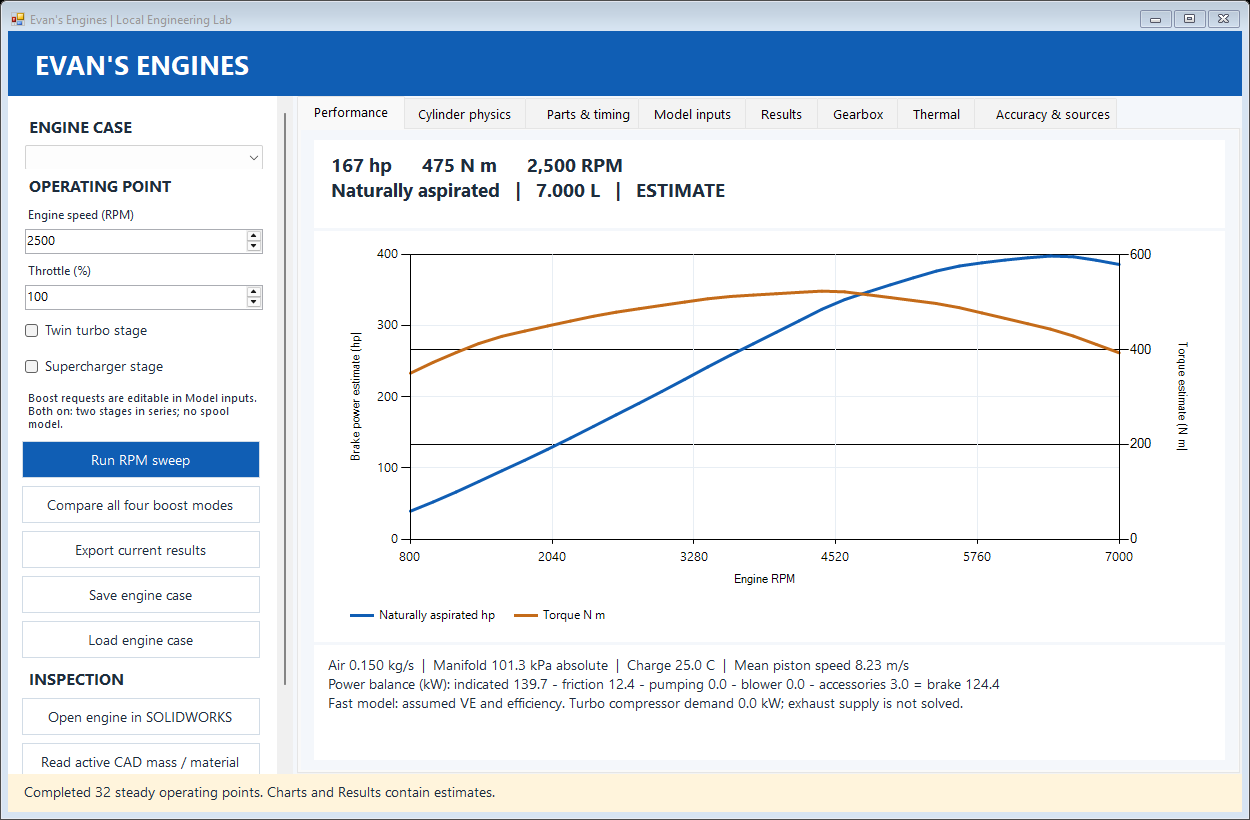
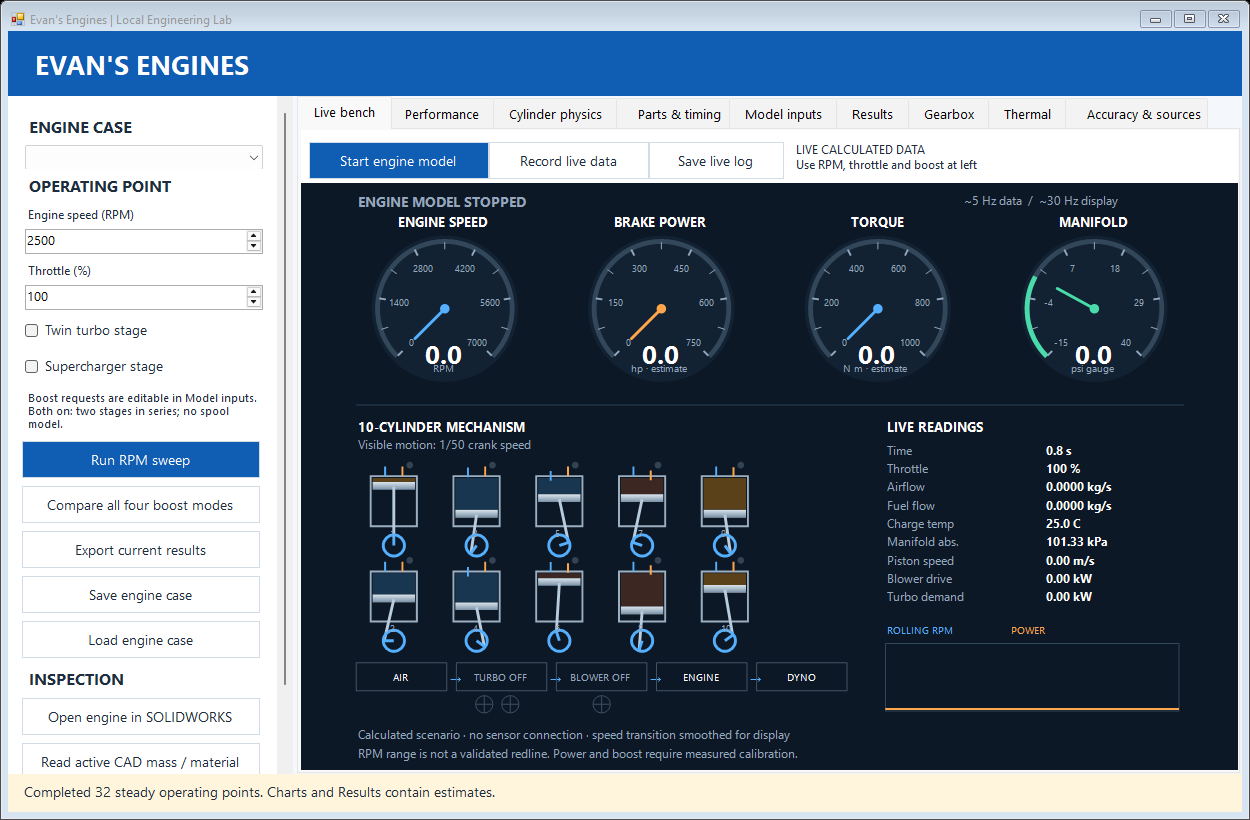
Add live gauges, animated engine system and timestamped data recording

diff --git a/EvanEngines.cs b/EvanEngines.cs
@@ -17,7 +17,7 @@ namespace V10Lab {
   public string Title="7.0 L V10 development";public string CreatedUTC=DateTime.UtcNow.ToString("o");
  }
  public sealed class SmoothPanel:Panel {public SmoothPanel(){DoubleBuffered=true;ResizeRedraw=true;}}
- public sealed class Lab:Form {
+ public sealed partial class Lab:Form {
   static readonly Color Blue=Color.FromArgb(16,94,180),Ink=Color.FromArgb(30,45,61),Paper=Color.FromArgb(244,247,251),Orange=Color.FromArgb(196,107,25);
   public static string Root {get{return AppDomain.CurrentDomain.BaseDirectory;}}
   Inputs input=new Inputs();Point point;List<Point> results;bool updating=false,playing=false;
@@ -49,13 +49,13 @@ namespace V10Lab {
    Button(side,"Open saved tests folder",()=>OpenPath(Path.Combine(Root,"Runs")),false);
    Button(side,"Read model & accuracy notes",()=>OpenPath(Path.Combine(Root,"README.txt")),false);
    tabs=new TabControl{Dock=DockStyle.Fill,Padding=new System.Drawing.Point(15,7)};split.Panel2.Controls.Add(tabs);
-   TabPage bench=Tab("Performance");TableLayoutPanel benchLayout=new TableLayoutPanel{Dock=DockStyle.Fill,RowCount=3,ColumnCount=1,Padding=new Padding(10)};benchLayout.RowStyles.Add(new RowStyle(SizeType.Absolute,88));benchLayout.RowStyles.Add(new RowStyle(SizeType.Percent,100));benchLayout.RowStyles.Add(new RowStyle(SizeType.Absolute,115));bench.Controls.Add(benchLayout);
+   BuildLiveBench();TabPage bench=Tab("Performance");TableLayoutPanel benchLayout=new TableLayoutPanel{Dock=DockStyle.Fill,RowCount=3,ColumnCount=1,Padding=new Padding(10)};benchLayout.RowStyles.Add(new RowStyle(SizeType.Absolute,88));benchLayout.RowStyles.Add(new RowStyle(SizeType.Percent,100));benchLayout.RowStyles.Add(new RowStyle(SizeType.Absolute,115));bench.Controls.Add(benchLayout);
    metrics=new Label{Dock=DockStyle.Fill,BackColor=Color.White,Padding=new Padding(12),Font=new Font("Segoe UI",16,FontStyle.Bold)};benchLayout.Controls.Add(metrics,0,0);
    plot=NewChart("Engine RPM","Brake power estimate (hp)");plot.ChartAreas[0].AxisY2.Enabled=AxisEnabled.True;plot.ChartAreas[0].AxisY2.Title="Torque estimate (N m)";benchLayout.Controls.Add(plot,0,1);
    energy=new Label{Dock=DockStyle.Fill,BackColor=Color.White,Padding=new Padding(10)};benchLayout.Controls.Add(energy,0,2);
    BuildCycle();BuildParts();BuildInputs();BuildResults();BuildGears();BuildThermal();BuildNotes();
    rpm.ValueChanged+=(s,e)=>RefreshPoint();throttle.ValueChanged+=(s,e)=>{RefreshPoint();RunSweep(false);};turbo.CheckedChanged+=(s,e)=>{RefreshPoint();RunSweep(false);};sc.CheckedChanged+=(s,e)=>{RefreshPoint();RunSweep(false);};
-   timer.Interval=33;timer.Tick+=(s,e)=>{double now=clock.Elapsed.TotalSeconds,dt=now-lastTime;lastTime=now;if(playing){animationAngle=Model.Mod(animationAngle+dt*120,720);angle.Value=(int)animationAngle;}mechanism.Invalidate();};timer.Start();
+   timer.Interval=33;timer.Tick+=(s,e)=>{double now=clock.Elapsed.TotalSeconds,dt=now-lastTime;lastTime=now;if(playing){animationAngle=Model.Mod(animationAngle+dt*120,720);angle.Value=(int)animationAngle;}mechanism.Invalidate();AdvanceLive(dt,now);};timer.Start();
    FillInputs();RefreshPoint();RunSweep(false);Shown+=(s,e)=>{split.SplitterDistance=285;};
   }
   TabPage Tab(string name){TabPage t=new TabPage(name){BackColor=Paper};tabs.TabPages.Add(t);return t;}
@@ -123,15 +123,15 @@ namespace V10Lab {
   void BuildThermal(){TabPage p=Tab("Thermal");FlowLayoutPanel controls=new FlowLayoutPanel{Dock=DockStyle.Left,Width=255,AutoScroll=true,FlowDirection=FlowDirection.TopDown,WrapContents=false,Padding=new Padding(8)};NumericUpDown mass=Number(controls,"Object mass (kg)",.1m,10000,100,1),cp=Number(controls,"Heat capacity (J/kg/K)",100,5000,900,0),ua=Number(controls,"Heat loss (W/K)",1,100000,200,0),heat=Number(controls,"Constant heat input (W)",0,1000000,20000,0),ambient=Number(controls,"Ambient / initial temperature (C)",-20,100,25,0);
    Action run=()=>{thermalPlot.Series.Clear();Series s=Line(thermalPlot,"Uniform-temperature scenario",Blue);double tau=(double)(mass.Value*cp.Value/ua.Value),t0=(double)ambient.Value,ss=t0+(double)(heat.Value/ua.Value);for(int t=0;t<=3600;t+=30)s.Points.AddXY(t,ss+(t0-ss)*Math.Exp(-t/tau));};Button(controls,"Calculate warm-up",run,true);AddText(controls,"Lumped thermal model. One uniform temperature; constant heat input and cooling. Not a predicted engine block temperature.",9,false,100);thermalPlot=NewChart("Elapsed time (s)","Object temperature (C)");p.Controls.Add(thermalPlot);p.Controls.Add(controls);run();}
   void BuildNotes(){TabPage p=Tab("Accuracy & sources");TextBox t=new TextBox{Dock=DockStyle.Fill,Multiline=true,ReadOnly=true,ScrollBars=ScrollBars.Vertical,BackColor=Color.White,BorderStyle=BorderStyle.None,Font=new Font("Segoe UI",11),Text=
-   "EVAN'S ENGINES 1.0\r\n\r\nGT-POWER inspired workflow; an independent concept tool. It does not contain GT-POWER code or its solver.\r\n\r\nFast performance: prescribed airflow/VE, ideal-cycle efficiency with an assumed realization factor, oxygen-limited fuel energy, friction/pumping/accessory losses and compressor heating. These are scenarios, not calibrated power predictions.\r\n\r\nCylinder physics: Cantera temperature-dependent air properties; closed compression/expansion, RK4 crank-angle integration, imposed Wiebe heat release and assumed wall heat transfer. Includes energy balance and step convergence. No chemical combustion, valve gas exchange, knock, emissions or turbine balance.\r\n\r\nParts: CAD slider-crank and valve-lift motion. Cam interpolation adapted from MIT-licensed Engine Simulator by Ange Yaghi. Timing controls do not update airflow estimates automatically.\r\n\r\nSOLIDWORKS: native parts open in CAD. Supported API mass/material readback is provided separately. CAD geometry does not determine horsepower.\r\n\r\nGearbox: ideal ratios with assumed 95% efficiency; no automatic shift control or torque-converter fluid model.\r\n\r\nThermal: independent one-temperature heat balance, not a finite element temperature/stress result.\r\n\r\n7000 RPM is the initial calculation range, not a mechanically validated redline. A result inside the range does not establish durability.\r\n\r\nTo improve accuracy: load measured VE/airflow, compression/chamber volumes, fuel properties, cylinder-pressure data, compressor/turbine maps and loss data. Numerical checks prove calculation consistency, not physical validation.\r\n\r\nREA 6.7.0 inspected our existing controller and compiled app. Evidence and original source excerpts are retained locally. REA is an analysis tool, not a physics solver.\r\n\r\nSources and licenses are in README.txt and LICENSES. No internet connection is needed to run the installed app."};p.Controls.Add(t);}
+   "EVAN'S ENGINES 0.2\r\n\r\nGT-POWER inspired workflow; an independent concept tool. It does not contain GT-POWER code or its solver.\r\n\r\nFast performance: prescribed airflow/VE, ideal-cycle efficiency with an assumed realization factor, oxygen-limited fuel energy, friction/pumping/accessory losses and compressor heating. These are scenarios, not calibrated power predictions.\r\n\r\nCylinder physics: Cantera temperature-dependent air properties; closed compression/expansion, RK4 crank-angle integration, imposed Wiebe heat release and assumed wall heat transfer. Includes energy balance and step convergence. No chemical combustion, valve gas exchange, knock, emissions or turbine balance.\r\n\r\nParts: CAD slider-crank and valve-lift motion. Cam interpolation adapted from MIT-licensed Engine Simulator by Ange Yaghi. Timing controls do not update airflow estimates automatically.\r\n\r\nSOLIDWORKS: native parts open in CAD. Supported API mass/material readback is provided separately. CAD geometry does not determine horsepower.\r\n\r\nGearbox: ideal ratios with assumed 95% efficiency; no automatic shift control or torque-converter fluid model.\r\n\r\nThermal: independent one-temperature heat balance, not a finite element temperature/stress result.\r\n\r\n7000 RPM is the initial calculation range, not a mechanically validated redline. A result inside the range does not establish durability.\r\n\r\nTo improve accuracy: load measured VE/airflow, compression/chamber volumes, fuel properties, cylinder-pressure data, compressor/turbine maps and loss data. Numerical checks prove calculation consistency, not physical validation.\r\n\r\nREA 6.7.0 inspected our existing controller and compiled app. Evidence and original source excerpts are retained locally. REA is an analysis tool, not a physics solver.\r\n\r\nSources and licenses are in README.txt and LICENSES. No internet connection is needed to run the installed app."};p.Controls.Add(t);}
   static void OpenPath(string path){if(!File.Exists(path)&&!Directory.Exists(path))throw new FileNotFoundException("Not found: "+path);Process.Start(new ProcessStartInfo(path){UseShellExecute=true});}
   void ReadCAD(){string helper=Path.Combine(Root,"CadReadback.exe");if(!File.Exists(helper))throw new Exception("The optional SOLIDWORKS helper is not installed. Build it against your licensed SOLIDWORKS API interop library.");using(Process proc=Process.Start(new ProcessStartInfo(helper){UseShellExecute=false,CreateNoWindow=true,WorkingDirectory=Root})){if(!proc.WaitForExit(15000))throw new Exception("CAD is busy; close dialogs and retry.");if(proc.ExitCode!=0)throw new Exception(File.ReadAllText(Path.Combine(Root,"Evidence","CAD_Readback_Error.txt")));}var data=Inputs.Json.Deserialize<Dictionary<string,object>>(File.ReadAllText(Path.Combine(Root,"Runs","SOLIDWORKS_Readback.json")));MessageBox.Show(String.Format(CultureInfo.InvariantCulture,"{0}\nConfiguration: {1}\nAssigned CAD mass: {2:F3} kg\nVolume: {3:F6} m3\nMaterial: {4}\n\nRead-only CAD properties; no performance or strength validation.",data["document"],data["configuration"],data["mass_kg"],data["volume_m3"],data["material"]),"SOLIDWORKS readback");}
   static void OpenCAD(string file){string folder=Path.GetFullPath(Path.Combine(Root,"..","Ford_427_V10_Development")),path=Path.Combine(folder,file);if(!File.Exists(path)){string[] candidates=Directory.Exists(folder)?Directory.GetFiles(folder,"*"+file.Replace(".SLDPRT","")+"*",SearchOption.AllDirectories):new string[0];if(candidates.Length==1)path=candidates[0];else throw new FileNotFoundException("That native part name was not found. Open the assembly and select the part in SOLIDWORKS.");}OpenPath(path);}
   public void SmokeCheck(){RefreshPoint();RunSweep(true);if(results.Count!=128)throw new Exception("Four-mode sweep failed.");turbo.Checked=true;sc.Checked=true;RefreshPoint();if(point.PressureRatio<=1)throw new Exception("Boost mode failed.");turbo.Checked=false;sc.Checked=false;RunSweep(false);for(int i=0;i<tabs.TabPages.Count;i++){tabs.SelectedIndex=i;Application.DoEvents();using(Bitmap bmp=new Bitmap(Width,Height)){DrawToBitmap(bmp,new Rectangle(0,0,Width,Height));bmp.Save(Path.Combine(Root,"Evidence","Tab_"+i+".png"));}}tabs.SelectedIndex=0;Application.DoEvents();}
-  public async Task IntegrationCheck(){await RunCycle();if(!cycleInfo.Text.Contains("Check: PASS"))throw new Exception("Cylinder UI integration failed: "+cycleInfo.Text);tabs.SelectedIndex=1;Application.DoEvents();using(Bitmap bmp=new Bitmap(Width,Height)){DrawToBitmap(bmp,new Rectangle(0,0,Width,Height));bmp.Save(Path.Combine(Root,"Evidence","Cylinder_UI.png"));}File.WriteAllText(Path.Combine(Root,"Evidence","Cylinder_UI_Check.txt"),"PASS: native app saved request, launched local Cantera backend, read pressure trace and numerical PASS, and plotted result.");}
+  public async Task IntegrationCheck(){await RunCycle();if(!cycleInfo.Text.Contains("Check: PASS"))throw new Exception("Cylinder UI integration failed: "+cycleInfo.Text);tabs.SelectedIndex=2;Application.DoEvents();using(Bitmap bmp=new Bitmap(Width,Height)){DrawToBitmap(bmp,new Rectangle(0,0,Width,Height));bmp.Save(Path.Combine(Root,"Evidence","Cylinder_UI.png"));}File.WriteAllText(Path.Combine(Root,"Evidence","Cylinder_UI_Check.txt"),"PASS: native app saved request, launched local Cantera backend, read pressure trace and numerical PASS, and plotted result.");}
  }
  public static class Program {
-  [STAThread] public static int Main(string[] args){try{if(args.Contains("--self-test"))return Checks.Run();Application.EnableVisualStyles();Application.SetCompatibleTextRenderingDefault(false);Directory.CreateDirectory(Path.Combine(Lab.Root,"Runs"));using(Lab app=new Lab()){if(args.Contains("--smoke-test")){app.Show();app.SmokeCheck();using(Bitmap bmp=new Bitmap(app.Width,app.Height)){app.DrawToBitmap(bmp,new Rectangle(0,0,bmp.Width,bmp.Height));bmp.Save(Path.Combine(Lab.Root,"Evidence","App_Smoke.png"));}File.WriteAllText(Path.Combine(Lab.Root,"Evidence","UI_Smoke.txt"),"PASS: construction, all tabs, four boost modes, 128 operating points, reset to baseline.");return 0;}int code=0;if(args.Contains("--integration-test"))app.Shown+=async(s,e)=>{try{await app.IntegrationCheck();}catch(Exception x){File.WriteAllText(Path.Combine(Lab.Root,"Evidence","Integration_Error.txt"),x.ToString());code=1;}app.Close();};Application.Run(app);return code;}}catch(Exception e){File.WriteAllText(Path.Combine(Lab.Root,"Evidence","Last_Error.txt"),e.ToString());if(!args.Contains("--self-test"))MessageBox.Show(e.Message,"Evan's Engines");return 1;}}
+  [STAThread] public static int Main(string[] args){try{if(args.Contains("--self-test"))return Checks.Run();Application.EnableVisualStyles();Application.SetCompatibleTextRenderingDefault(false);Directory.CreateDirectory(Path.Combine(Lab.Root,"Runs"));using(Lab app=new Lab()){if(args.Contains("--smoke-test")){app.Show();app.SmokeCheck();using(Bitmap bmp=new Bitmap(app.Width,app.Height)){app.DrawToBitmap(bmp,new Rectangle(0,0,bmp.Width,bmp.Height));bmp.Save(Path.Combine(Lab.Root,"Evidence","App_Smoke.png"));}File.WriteAllText(Path.Combine(Lab.Root,"Evidence","UI_Smoke.txt"),"PASS: construction, all tabs, four boost modes, 128 operating points, reset to baseline.");return 0;}if(args.Contains("--live-test")){app.Show();app.LiveCheck();return 0;}if(args.Contains("--run-live"))app.Shown+=(s,e)=>app.BeginLive();int code=0;if(args.Contains("--integration-test"))app.Shown+=async(s,e)=>{try{await app.IntegrationCheck();}catch(Exception x){File.WriteAllText(Path.Combine(Lab.Root,"Evidence","Integration_Error.txt"),x.ToString());code=1;}app.Close();};Application.Run(app);return code;}}catch(Exception e){File.WriteAllText(Path.Combine(Lab.Root,"Evidence","Last_Error.txt"),e.ToString());if(!args.Contains("--self-test"))MessageBox.Show(e.Message,"Evan's Engines");return 1;}}
  }
 }
 

diff --git a/LiveBench.cs b/LiveBench.cs
@@ -1,0 +1,115 @@
+using System;
+using System.Collections.Generic;
+using System.Drawing;
+using System.Drawing.Drawing2D;
+using System.Globalization;
+using System.IO;
+using System.Security.Cryptography;
+using System.Text;
+using System.Windows.Forms;
+
+namespace V10Lab {
+ // The first-order transition is display smoothing, not a calibrated engine
+ // transient. The analytical update is independent of UI frame rate.
+ public sealed class LiveState {
+  public bool Enabled;public double RPM,VisualAngle;
+  public void Advance(double dt,double target){
+   Inputs.Range(dt,0,60,"Display time step");Inputs.Range(target,0,7000,"RPM target");
+   double goal=Enabled?target:0,tau=Enabled?.7:.45,old=RPM,decay=Math.Exp(-dt/tau);
+   RPM=goal+(old-goal)*decay;
+   double revIntegral=goal*dt+(old-goal)*tau*(1-decay);
+   VisualAngle=Model.Mod(VisualAngle+revIntegral*6/50,720);
+  }
+ }
+ public sealed class LiveSample {
+  public double Seconds;public string UTC,InputId;public Point Point;
+ }
+ public sealed partial class Lab {
+  readonly LiveState live=new LiveState();SmoothPanel liveCanvas;Button liveStart,recordButton;
+  Point livePoint;double lastLiveSample=-1;bool recording;
+  readonly List<LiveSample> liveHistory=new List<LiveSample>(),recorded=new List<LiveSample>();
+  readonly Dictionary<string,Inputs> recordedInputs=new Dictionary<string,Inputs>();
+  void BuildLiveBench(){
+   TabPage page=Tab("Live bench");FlowLayoutPanel bar=new FlowLayoutPanel{Dock=DockStyle.Top,Height=53,Padding=new Padding(8),BackColor=Color.White,WrapContents=false};
+   liveStart=Button(bar,"Start engine model",()=>{live.Enabled=!live.Enabled;liveStart.Text=live.Enabled?"Stop engine model":"Start engine model";},true);liveStart.Width=180;
+   recordButton=Button(bar,"Record live data",()=>{recording=!recording;recordButton.Text=recording?"Stop recording":"Record live data";if(recording&&recorded.Count>=6000){recorded.Clear();recordedInputs.Clear();}},false);recordButton.Width=160;
+   Button save=Button(bar,"Save live log",SaveLive,false);save.Width=135;
+   Label label=new Label{Text="LIVE CALCULATED DATA\nUse RPM, throttle and boost at left",Width=270,Height=40,Padding=new Padding(6,4,0,0),Font=new Font("Segoe UI",9)};bar.Controls.Add(label);
+   liveCanvas=new SmoothPanel{Dock=DockStyle.Fill,BackColor=Color.FromArgb(13,24,38)};liveCanvas.Paint+=DrawLive;page.Controls.Add(liveCanvas);page.Controls.Add(bar);
+  }
+  void AdvanceLive(double dt,double now){
+   if(liveCanvas==null||input==null||rpm==null)return;
+   live.Advance(Math.Min(dt,60),(double)rpm.Value);
+   livePoint=Model.Calculate(input,live.RPM,(double)throttle.Value/100,live.Enabled&&turbo.Checked,live.Enabled&&sc.Checked);
+   if(!live.Enabled){livePoint=Model.Calculate(input,0,(double)throttle.Value/100,false,false);livePoint.RPM=live.RPM;livePoint.MeanPistonMS=2*input.StrokeMm/1000*live.RPM/60;livePoint.ManifoldKPa=input.AmbientKPa;livePoint.ChargeC=input.AmbientC;}
+   if(lastLiveSample<0)lastLiveSample=now-.2;
+   if(now-lastLiveSample>=.2){lastLiveSample=now-((now-lastLiveSample)%.2);LiveSample sample=new LiveSample{Seconds=now,UTC=DateTime.UtcNow.ToString("o"),Point=livePoint,InputId=""};liveHistory.Add(sample);if(liveHistory.Count>300)liveHistory.RemoveAt(0);
+    if(recording){string json=Inputs.Json.Serialize(input),id;using(SHA256 hash=SHA256.Create())id=BitConverter.ToString(hash.ComputeHash(Encoding.UTF8.GetBytes(json))).Replace("-","").Substring(0,16);sample.InputId=id;if(!recordedInputs.ContainsKey(id))recordedInputs.Add(id,input.Copy());recorded.Add(sample);if(recorded.Count>=6000){recording=false;recordButton.Text="Record live data";status.Text="Live recording reached 6000 samples. Save the log before starting another.";}}
+   }
+   if(tabs.SelectedIndex==0)liveCanvas.Invalidate();
+  }
+  void SaveLive(){if(recorded.Count==0)throw new Exception("Press Record live data, run the model, then stop recording and save the log.");using(SaveFileDialog d=new SaveFileDialog{Filter="Live data (*.csv)|*.csv",InitialDirectory=Path.Combine(Root,"Runs"),FileName="Live_"+DateTime.Now.ToString("yyyyMMdd_HHmmss")+".csv"})if(d.ShowDialog()==DialogResult.OK){WriteLiveLog(d.FileName);status.Text="Saved "+recorded.Count+" live samples with timestamps and input snapshots.";}}
+  void WriteLiveLog(string path){
+   StringBuilder output=new StringBuilder("elapsed_seconds,utc,input_id,");string header=Model.CSV(new List<Point>()).Trim();output.Append(header+"\r\n");
+   foreach(LiveSample sample in recorded){string row=Model.CSV(new List<Point>{sample.Point}).Split(new[]{"\r\n"},StringSplitOptions.RemoveEmptyEntries)[1];output.Append(sample.Seconds.ToString("G17",CultureInfo.InvariantCulture)+","+sample.UTC+","+sample.InputId+","+row+"\r\n");}
+   File.WriteAllText(path,output.ToString());File.WriteAllText(path+".inputs.json",Inputs.Json.Serialize(new{DataSource="Live calculated mean-value scenarios; no hardware telemetry",InputSets=recordedInputs,DisplayRPMTransition="First-order smoothing: 0.7 s on, 0.45 s off; not a physical transient",Samples=recorded.Count}));
+  }
+  static readonly Color LiveBlue=Color.FromArgb(84,176,255),LiveOrange=Color.FromArgb(255,165,75),LiveGreen=Color.FromArgb(73,220,170),LiveMuted=Color.FromArgb(147,167,189);
+  static void TextAt(Graphics g,string text,float x,float y,float size,Color color,bool bold=false,bool center=false){using(Font font=new Font("Segoe UI",size,bold?FontStyle.Bold:FontStyle.Regular))using(SolidBrush brush=new SolidBrush(color)){if(center)x-=g.MeasureString(text,font).Width/2;g.DrawString(text,font,brush,x,y);}}
+  static void Gauge(Graphics g,float x,float y,float radius,string name,string unit,double value,double min,double max,Color color){
+   using(SolidBrush dial=new SolidBrush(Color.FromArgb(18,34,51)))g.FillEllipse(dial,x-radius,y-radius,2*radius,2*radius);
+   using(Pen rim=new Pen(Color.FromArgb(51,71,91),5))g.DrawArc(rim,x-radius+6,y-radius+6,2*radius-12,2*radius-12,135,270);
+   double fraction=Math.Max(0,Math.Min(1,(value-min)/(max-min)));
+   using(Pen active=new Pen(color,5))g.DrawArc(active,x-radius+6,y-radius+6,2*radius-12,2*radius-12,135,(float)(270*fraction));
+   for(int i=0;i<=10;i++){double a=(135+i*27)*Math.PI/180;float inner=radius-14,outer=radius-7;using(Pen tick=new Pen(LiveMuted,i%2==0?2:1))g.DrawLine(tick,x+inner*(float)Math.Cos(a),y+inner*(float)Math.Sin(a),x+outer*(float)Math.Cos(a),y+outer*(float)Math.Sin(a));if(i%2==0)TextAt(g,(min+(max-min)*i/10).ToString("0",CultureInfo.InvariantCulture),x+(radius-28)*(float)Math.Cos(a),y+(radius-28)*(float)Math.Sin(a)-5,7,LiveMuted,false,true);}
+   double theta=(135+270*fraction)*Math.PI/180;using(Pen needle=new Pen(color,3)){needle.StartCap=LineCap.Round;needle.EndCap=LineCap.Round;g.DrawLine(needle,x,y,x+(radius-32)*(float)Math.Cos(theta),y+(radius-32)*(float)Math.Sin(theta));}
+   using(SolidBrush hub=new SolidBrush(color))g.FillEllipse(hub,x-5,y-5,10,10);
+   TextAt(g,name,x,y-radius-23,10,Color.White,true,true);TextAt(g,value.ToString("0.0",CultureInfo.InvariantCulture),x,y+28,20,Color.White,true,true);TextAt(g,unit,x,y+55,8,LiveMuted,false,true);
+  }
+  void DrawLive(object sender,PaintEventArgs e){
+   Graphics g=e.Graphics;g.SmoothingMode=SmoothingMode.AntiAlias;float scale=Math.Min(liveCanvas.ClientSize.Width/900f,liveCanvas.ClientSize.Height/610f);if(scale<=0)return;g.TranslateTransform((liveCanvas.ClientSize.Width-900*scale)/2,0);g.ScaleTransform(scale,scale);
+   Point p=livePoint??Model.Calculate(input,0,0,false,false);bool on=live.Enabled;
+   TextAt(g,on?"RUNNING  /  DYNO SPEED HOLD":"ENGINE MODEL STOPPED",20,9,11,on?LiveGreen:LiveMuted,true);TextAt(g,recording?"REC  "+recorded.Count+" samples":"~5 Hz data  /  ~30 Hz display",650,10,9,recording?LiveOrange:LiveMuted,false,false);
+   double hpMax=Math.Max(750,Math.Ceiling(Math.Abs(p.HP)/250)*250),torqueMax=Math.Max(1000,Math.Ceiling(Math.Abs(p.TorqueNm)/500)*500);
+   Gauge(g,112,130,76,"ENGINE SPEED","RPM",p.RPM,0,7000,LiveBlue);Gauge(g,337,130,76,"BRAKE POWER","hp · estimate",p.HP,Math.Min(0,Math.Floor(p.HP/250)*250),hpMax,LiveOrange);Gauge(g,562,130,76,"TORQUE","N m · estimate",p.TorqueNm,Math.Min(0,Math.Floor(p.TorqueNm/500)*500),torqueMax,LiveBlue);Gauge(g,787,130,76,"MANIFOLD","psi gauge",(p.ManifoldKPa-input.AmbientKPa)*1000/Model.PascalPerPsi,-15,40,LiveGreen);
+   using(Pen rule=new Pen(Color.FromArgb(42,64,86),1))g.DrawLine(rule,20,230,880,230);
+   TextAt(g,input.Cylinders+"-CYLINDER MECHANISM",20,244,10,Color.White,true);TextAt(g,"Visible motion: 1/50 crank speed",20,264,9,LiveMuted);
+   int columns=(input.Cylinders+1)/2;
+   for(int i=0;i<input.Cylinders;i++){
+    int bank=i%2,col=i/2;float spacing=Math.Min(86,490f/Math.Max(1,columns)),x=35+col*spacing,y=296+bank*99;
+    double cycle=Model.Mod(live.VisualAngle-Model.Phase(i+1,input),720),below=Model.PistonBelowTDC(cycle,input),il=CamProfile.ValveLift(cycle,true,0),el=CamProfile.ValveLift(cycle,false,0);
+    float strokePixels=31,pistonY=y+14+(float)(below/input.StrokeMm)*strokePixels;
+    using(Pen wall=new Pen(Color.FromArgb(155,175,193),2))g.DrawRectangle(wall,x,y+8,48,52);
+    Color charge=cycle<180?Color.FromArgb(90,65,25):cycle<360?Color.FromArgb(60,39,34):Color.FromArgb(25,54,80);
+    using(SolidBrush gas=new SolidBrush(charge))g.FillRectangle(gas,x+2,y+10,44,Math.Max(0,pistonY-y-10));
+    using(LinearGradientBrush piston=new LinearGradientBrush(new RectangleF(x+2,pistonY,44,8),Color.FromArgb(220,230,237),Color.FromArgb(122,146,168),90))g.FillRectangle(piston,x+2,pistonY,44,8);
+    float cx=x+24,cy=y+80;double a=cycle*Math.PI/180;float jx=cx+10*(float)Math.Sin(a),jy=cy-10*(float)Math.Cos(a);using(Pen rod=new Pen(Color.FromArgb(184,204,222),3))g.DrawLine(rod,cx,pistonY+5,jx,jy);using(Pen crank=new Pen(LiveBlue,3)){g.DrawEllipse(crank,cx-11,cy-11,22,22);g.DrawLine(crank,cx,cy,jx,jy);}
+    using(Pen valve=new Pen(LiveBlue,2))g.DrawLine(valve,x+15,y-2+(float)il*.5f,x+15,y+8+(float)il*.5f);using(Pen valve=new Pen(LiveOrange,2))g.DrawLine(valve,x+33,y-2+(float)el*.5f,x+33,y+8+(float)el*.5f);
+    using(SolidBrush fire=new SolidBrush(on&&cycle<25?LiveOrange:Color.FromArgb(50,67,83)))g.FillEllipse(fire,x+37,y-7,7,7);TextAt(g,(i+1).ToString(),x+19,y+61,7,LiveMuted);
+   }
+   TextAt(g,"LIVE READINGS",570,244,10,Color.White,true);
+   string[] names={"Time","Throttle","Airflow","Fuel flow","Charge temp","Manifold abs.","Piston speed","Blower drive","Turbo demand"};
+   string[] values={clock.Elapsed.TotalSeconds.ToString("F1")+" s",throttle.Value+" %",p.AirKgS.ToString("F4")+" kg/s",p.FuelKgS.ToString("F4")+" kg/s",p.ChargeC.ToString("F1")+" C",p.ManifoldKPa.ToString("F2")+" kPa",p.MeanPistonMS.ToString("F2")+" m/s",p.SuperchargerDriveKW.ToString("F2")+" kW",p.TurboCompressorKW.ToString("F2")+" kW"};
+   for(int i=0;i<names.Length;i++){TextAt(g,names[i],570,270+i*19,9,LiveMuted);TextAt(g,values[i],735,270+i*19,9,Color.White,true);}
+   string[] blocks={"AIR",turbo.Checked?"TWIN TURBO":"TURBO OFF",sc.Checked?"BLOWER":"BLOWER OFF","ENGINE","DYNO"};
+   for(int i=0;i<5;i++){float x=20+i*104;using(Pen box=new Pen(on?LiveBlue:Color.FromArgb(65,83,101),1))g.DrawRectangle(box,x,498,94,29);TextAt(g,blocks[i],x+47,506,8,i==1&&!turbo.Checked||i==2&&!sc.Checked?LiveMuted:Color.White,false,true);if(i<4)TextAt(g,"→",x+94,503,12,LiveBlue);}
+   if(on){for(int i=0;i<4;i++){float x=114+i*104+(float)(Model.Mod(clock.Elapsed.TotalSeconds*2,1)*10);using(SolidBrush flow=new SolidBrush(LiveBlue))g.FillEllipse(flow,x,487,4,4);}}
+   for(int stage=0;stage<2;stage++){bool active=on&&(stage==0?turbo.Checked:sc.Checked);for(int rotor=0;rotor<(stage==0?2:1);rotor++){float x=stage==0?153+rotor*27:275,y=541;double a=live.VisualAngle*Math.PI/180*(stage==0?8:1.5);using(Pen blades=new Pen(active?LiveGreen:Color.FromArgb(60,79,96),1.5f)){g.DrawEllipse(blades,x-9,y-9,18,18);for(int blade=0;blade<4;blade++){double b=a+blade*Math.PI/2;g.DrawLine(blades,x,y,x+8*(float)Math.Cos(b),y+8*(float)Math.Sin(b));}}}}
+   TextAt(g,"ROLLING RPM",570,457,8,LiveBlue);TextAt(g,"POWER",699,457,8,LiveOrange);using(Pen border=new Pen(Color.FromArgb(50,70,90),1))g.DrawRectangle(border,570,478,305,70);
+   if(liveHistory.Count>1){PointF[] rpmPoints=new PointF[liveHistory.Count],hpPoints=new PointF[liveHistory.Count];for(int i=0;i<liveHistory.Count;i++){float x=570+305f*i/Math.Max(1,liveHistory.Count-1);rpmPoints[i]=new PointF(x,546-(float)(liveHistory[i].Point.RPM/7000)*66);hpPoints[i]=new PointF(x,546-(float)Math.Max(0,Math.Min(1,liveHistory[i].Point.HP/hpMax))*66);}using(Pen pen=new Pen(LiveBlue,2))g.DrawLines(pen,rpmPoints);using(Pen pen=new Pen(LiveOrange,2))g.DrawLines(pen,hpPoints);}
+   TextAt(g,"Calculated scenario · no sensor connection · speed transition smoothed for display",20,565,9,LiveMuted);
+   TextAt(g,"RPM range is not a validated redline. Power and boost require measured calibration.",20,585,9,LiveMuted);
+  }
+  public void LiveCheck(){
+   tabs.SelectedIndex=0;live.Enabled=true;liveStart.Text="Stop engine model";recording=true;
+   for(int i=1;i<=60;i++)AdvanceLive(.05,i*.05+clock.Elapsed.TotalSeconds);
+   if(Math.Abs(live.RPM-(double)rpm.Value)>40)throw new Exception("Live RPM did not approach its setpoint.");
+   if(liveHistory.Count<10||recorded.Count<10)throw new Exception("Live history / recording did not update.");
+   double expected=Model.Calculate(input,live.RPM,(double)throttle.Value/100,turbo.Checked,sc.Checked).HP;if(Math.Abs(livePoint.HP-expected)>1e-9)throw new Exception("Live gauges are not reading the model.");
+   recording=false;recordButton.Text="Record live data";WriteLiveLog(Path.Combine(Root,"Evidence","Live_Test.csv"));
+   Application.DoEvents();using(Bitmap bmp=new Bitmap(Width,Height)){DrawToBitmap(bmp,new Rectangle(0,0,Width,Height));bmp.Save(Path.Combine(Root,"Evidence","Live_Bench.png"));}
+   File.WriteAllText(Path.Combine(Root,"Evidence","Live_Check.txt"),"PASS: Start/Stop state, smoothed RPM, calculated gauges, 5 Hz rolling history, live CSV recording and input snapshots. Display transition is not a physical transient model.");
+  }
+  public void BeginLive(){live.Enabled=true;liveStart.Text="Stop engine model";}
+ }
+}

diff --git a/Checks.cs b/Checks.cs
@@ -40,6 +40,7 @@ namespace V10Lab {
    rejected=false;try{Inputs bad=p.Copy();bad.VeRPM[1]=500;bad.Validate();}catch(ArgumentException){rejected=true;}True(rejected,"Unordered VE rejected");
    rejected=false;try{Inputs bad=p.Copy();bad.TurboEfficiency=double.NaN;bad.Validate();}catch(ArgumentException){rejected=true;}True(rejected,"Non-finite input rejected");
    True(Model.Sweep(p,1,false,false).Count==32,"Sweep endpoints");
+   LiveState one=new LiveState{Enabled=true},many=new LiveState{Enabled=true};one.Advance(1,3500);for(int i=0;i<100;i++)many.Advance(.01,3500);Near(one.RPM,many.RPM,1e-9,"Live smoothing frame independence");Near(one.VisualAngle,many.VisualAngle,1e-8,"Live motion integration frame independence");one.Enabled=false;one.Advance(20,3500);True(one.RPM<1e-10,"Live stop decay");Near(Model.Calculate(p,400,1,false,false).AccessoryKW,p.AccessoryKW/2,1e-12,"Accessory startup torque assumption");True(Math.Abs(Model.Calculate(p,.1,1,false,false).TorqueNm)<2000,"Finite low-speed accessory torque");
    string root=AppDomain.CurrentDomain.BaseDirectory;Directory.CreateDirectory(Path.Combine(root,"Evidence"));File.WriteAllText(Path.Combine(root,"Evidence","Numeric_Cases.json"),Inputs.Json.Serialize(cases));
    log.Add("PASS: "+count+" numerical assertions; "+cases.Count+" scenario points.");log.Add("Worst sampled cam/CAD motion error: intake "+worstI.ToString("R",CultureInfo.InvariantCulture)+" mm; exhaust "+worstE.ToString("R",CultureInfo.InvariantCulture)+" mm.");
    log.Add("Checks include units, energy accounting, zero speed, oxygen-limited fuel, compounded boost, ideal gearbox power, JSON deep copy, input rejection and sweep endpoints.");

diff --git a/EngineModel.cs b/EngineModel.cs
@@ -20,7 +20,7 @@ namespace V10Lab {
         public double TurboExhaustLossBar=0.25;
         public double[] VeRPM={800,1500,2500,3500,4500,5500,6500,7000};
         public double[] Ve={0.68,0.78,0.87,0.94,0.98,0.95,0.88,0.82};
-        public string ModelVersion="1.0.0";
+        public string ModelVersion="0.2.0";
         public string DataStatus="UNVALIDATED SCENARIO: airflow, combustion, losses and boost are assumptions";
         public Inputs Copy() {return Json.Deserialize<Inputs>(Json.Serialize(this));}
         public void Validate() {
@@ -86,7 +86,9 @@ namespace V10Lab {
             r.PumpingKW=pmep*1e5*DisplacementM3(p)*rpm/120/1000;
             r.TurboCompressorKW=r.AirKgS*AirCp*turboDelta/1000;
             r.SuperchargerDriveKW=r.AirKgS*AirCp*scDelta/p.DriveEfficiency/1000;
-            r.AccessoryKW=rpm>0?p.AccessoryKW:0;
+            // Assumed constant accessory torque below 800 RPM, fixed power above.
+            // This avoids a nonphysical infinite accessory torque as RPM -> 0.
+            r.AccessoryKW=p.AccessoryKW*Math.Min(1,rpm/800);
             r.BrakeKW=r.IndicatedKW-r.FrictionKW-r.PumpingKW-r.SuperchargerDriveKW-r.AccessoryKW;
             r.HP=r.BrakeKW*1000/WattPerHP;
             r.TorqueNm=rpm>0?r.BrakeKW*1000/(rpm*2*Math.PI/60):0;

diff --git a/REA_Inspection.md b/REA_Inspection.md
@@ -5,9 +5,9 @@ REA 6.7.0 was used locally to inspect the existing CAD controller and the new ap
 - Original controller SHA-256: b77c51f3a97ec7dca4539f35440b57073075098acc0e319819ffa85b51d95cfd
 - Existing EngineKinematics CIL was inspected. It implements CAD poses and cosine valve motion, not an airflow/combustion solver.
 - Engine Simulator CE's native executable was inventoried using REA's artifact inspection. This was a bounded static inventory, **not a decompilation of its engine physics**. Published MIT source was used instead.
[2 lines of base64/hex data omitted]
 - New app PE/CLI metadata coverage: complete. Managed architecture: x86_64.
-- New `V10Lab.CamProfile` and `V10Lab.Model` methods were decoded as CIL with complete selected-type coverage.
+- New `V10Lab.CamProfile`, `V10Lab.Model` and `V10Lab.LiveState` methods were decoded as CIL with complete selected-type coverage.
 - `CamProfile.cs` adapts Engine Simulator's published `src/function.cpp` triangle sampling and nearest-sample search, with finite-value and ordering checks.
 
 REA does not contribute physics or validate outputs. Raw local evidence is retained with the installed app; this public summary omits local filesystem paths. Original source excerpts and their MIT license are retained locally. The complete Engine Simulator combustion/audio solver was not ported.

diff --git a/Verification.md b/Verification.md
@@ -1,12 +1,13 @@
 # Verification of the initial local build
 
-- 4,686 numerical assertions across 480 engine operating points passed.
+- 4,691 numerical assertions across 480 engine operating points passed.
 - Included unit conversions, power/torque identities, oxygen-limited fuel energy, boost pressure ratios, power-loss accounting, zero speed, ideal gear power, input rejection and case snapshots.
 - Valve interpolation compared with the CAD law over 72,001 cycle positions: worst error below 0.001 mm.
 - Cantera closed-cylinder tests passed reversible constant-cv motoring and fired cases at 1000, 3500 and 6500 RPM with two charge conditions.
 - Fired calculations passed first-law energy balance and half-step work/peak-pressure checks.
 - Native desktop smoke check passed every tab and all four boost modes (128 points).
 - Native app -> bundled Python/Cantera -> saved pressure trace -> chart integration passed.
+- Live gauges use the model output. Start/Stop, frame-independent display smoothing, rolling readings, CSV recording and input snapshots passed their integration check.
 - Optional SOLIDWORKS helper successfully read the active assembly's mass, volume and area without saving or modifying CAD.
 
 These are numerical and software checks. No real dyno calibration, measured power validation, structural durability, turbo-map validation or GT-POWER equivalence is claimed.

diff --git a/README.md b/README.md
@@ -2,10 +2,12 @@
 
 A local Windows engineering lab for engine scenarios, cylinder thermodynamics, parts and timing, ideal gearboxes, and simple thermal tests.
 
-![Evan’s Engines desktop app](App_Smoke.png)
+![Evan’s Engines live test bench](Live_Bench.png)
 
 ## What works
 
+- Live RPM, horsepower, torque and manifold gauges; animated cylinders, valves and boost activity; rolling history and timestamped CSV recording with input snapshots.
+- Live data is calculated by the scenario model, not ECU/sensor telemetry. Speed transitions are display smoothing; mechanism motion is shown at 1/50 speed.
 - Configurable four-stroke engines with 1–16 cylinders; a 7.0 L V10 starts with geometry from the user's CAD concept.
 - Direct RPM/throttle controls, sweeps, independent twin-turbo/supercharger switches and four-mode comparisons.
 - Saved JSON engine cases, CSV curves and complete input snapshots.
